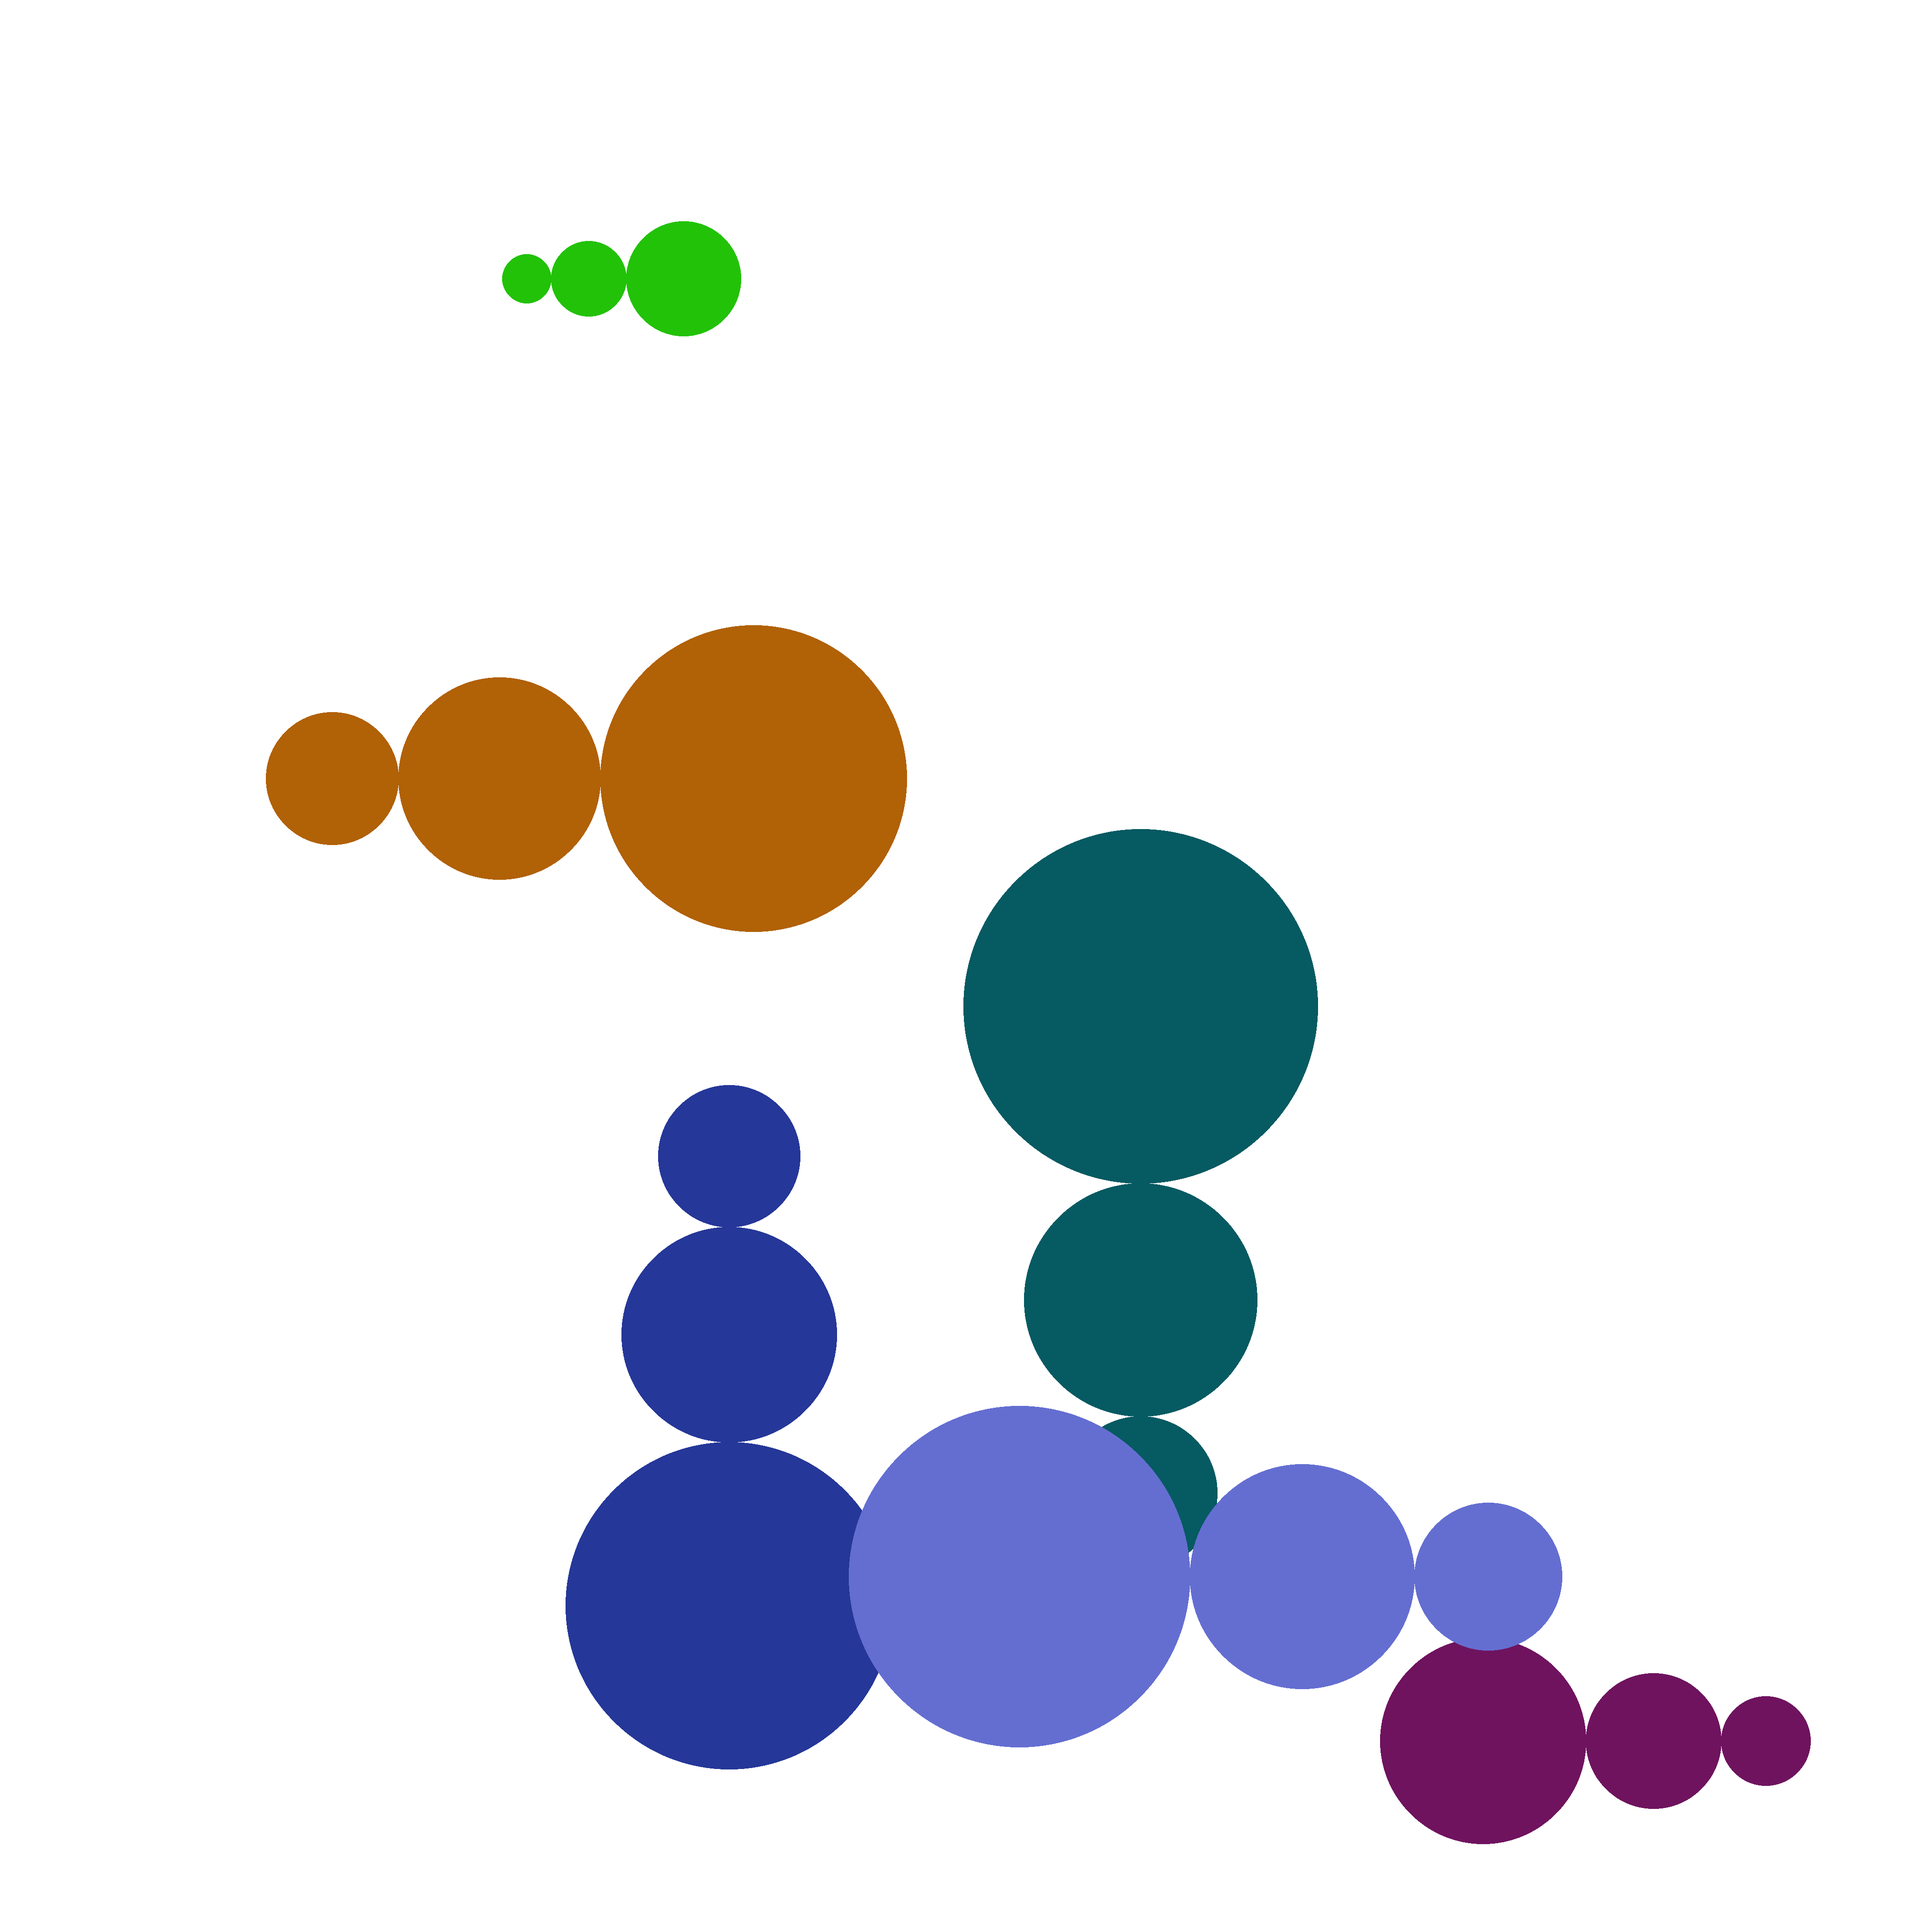
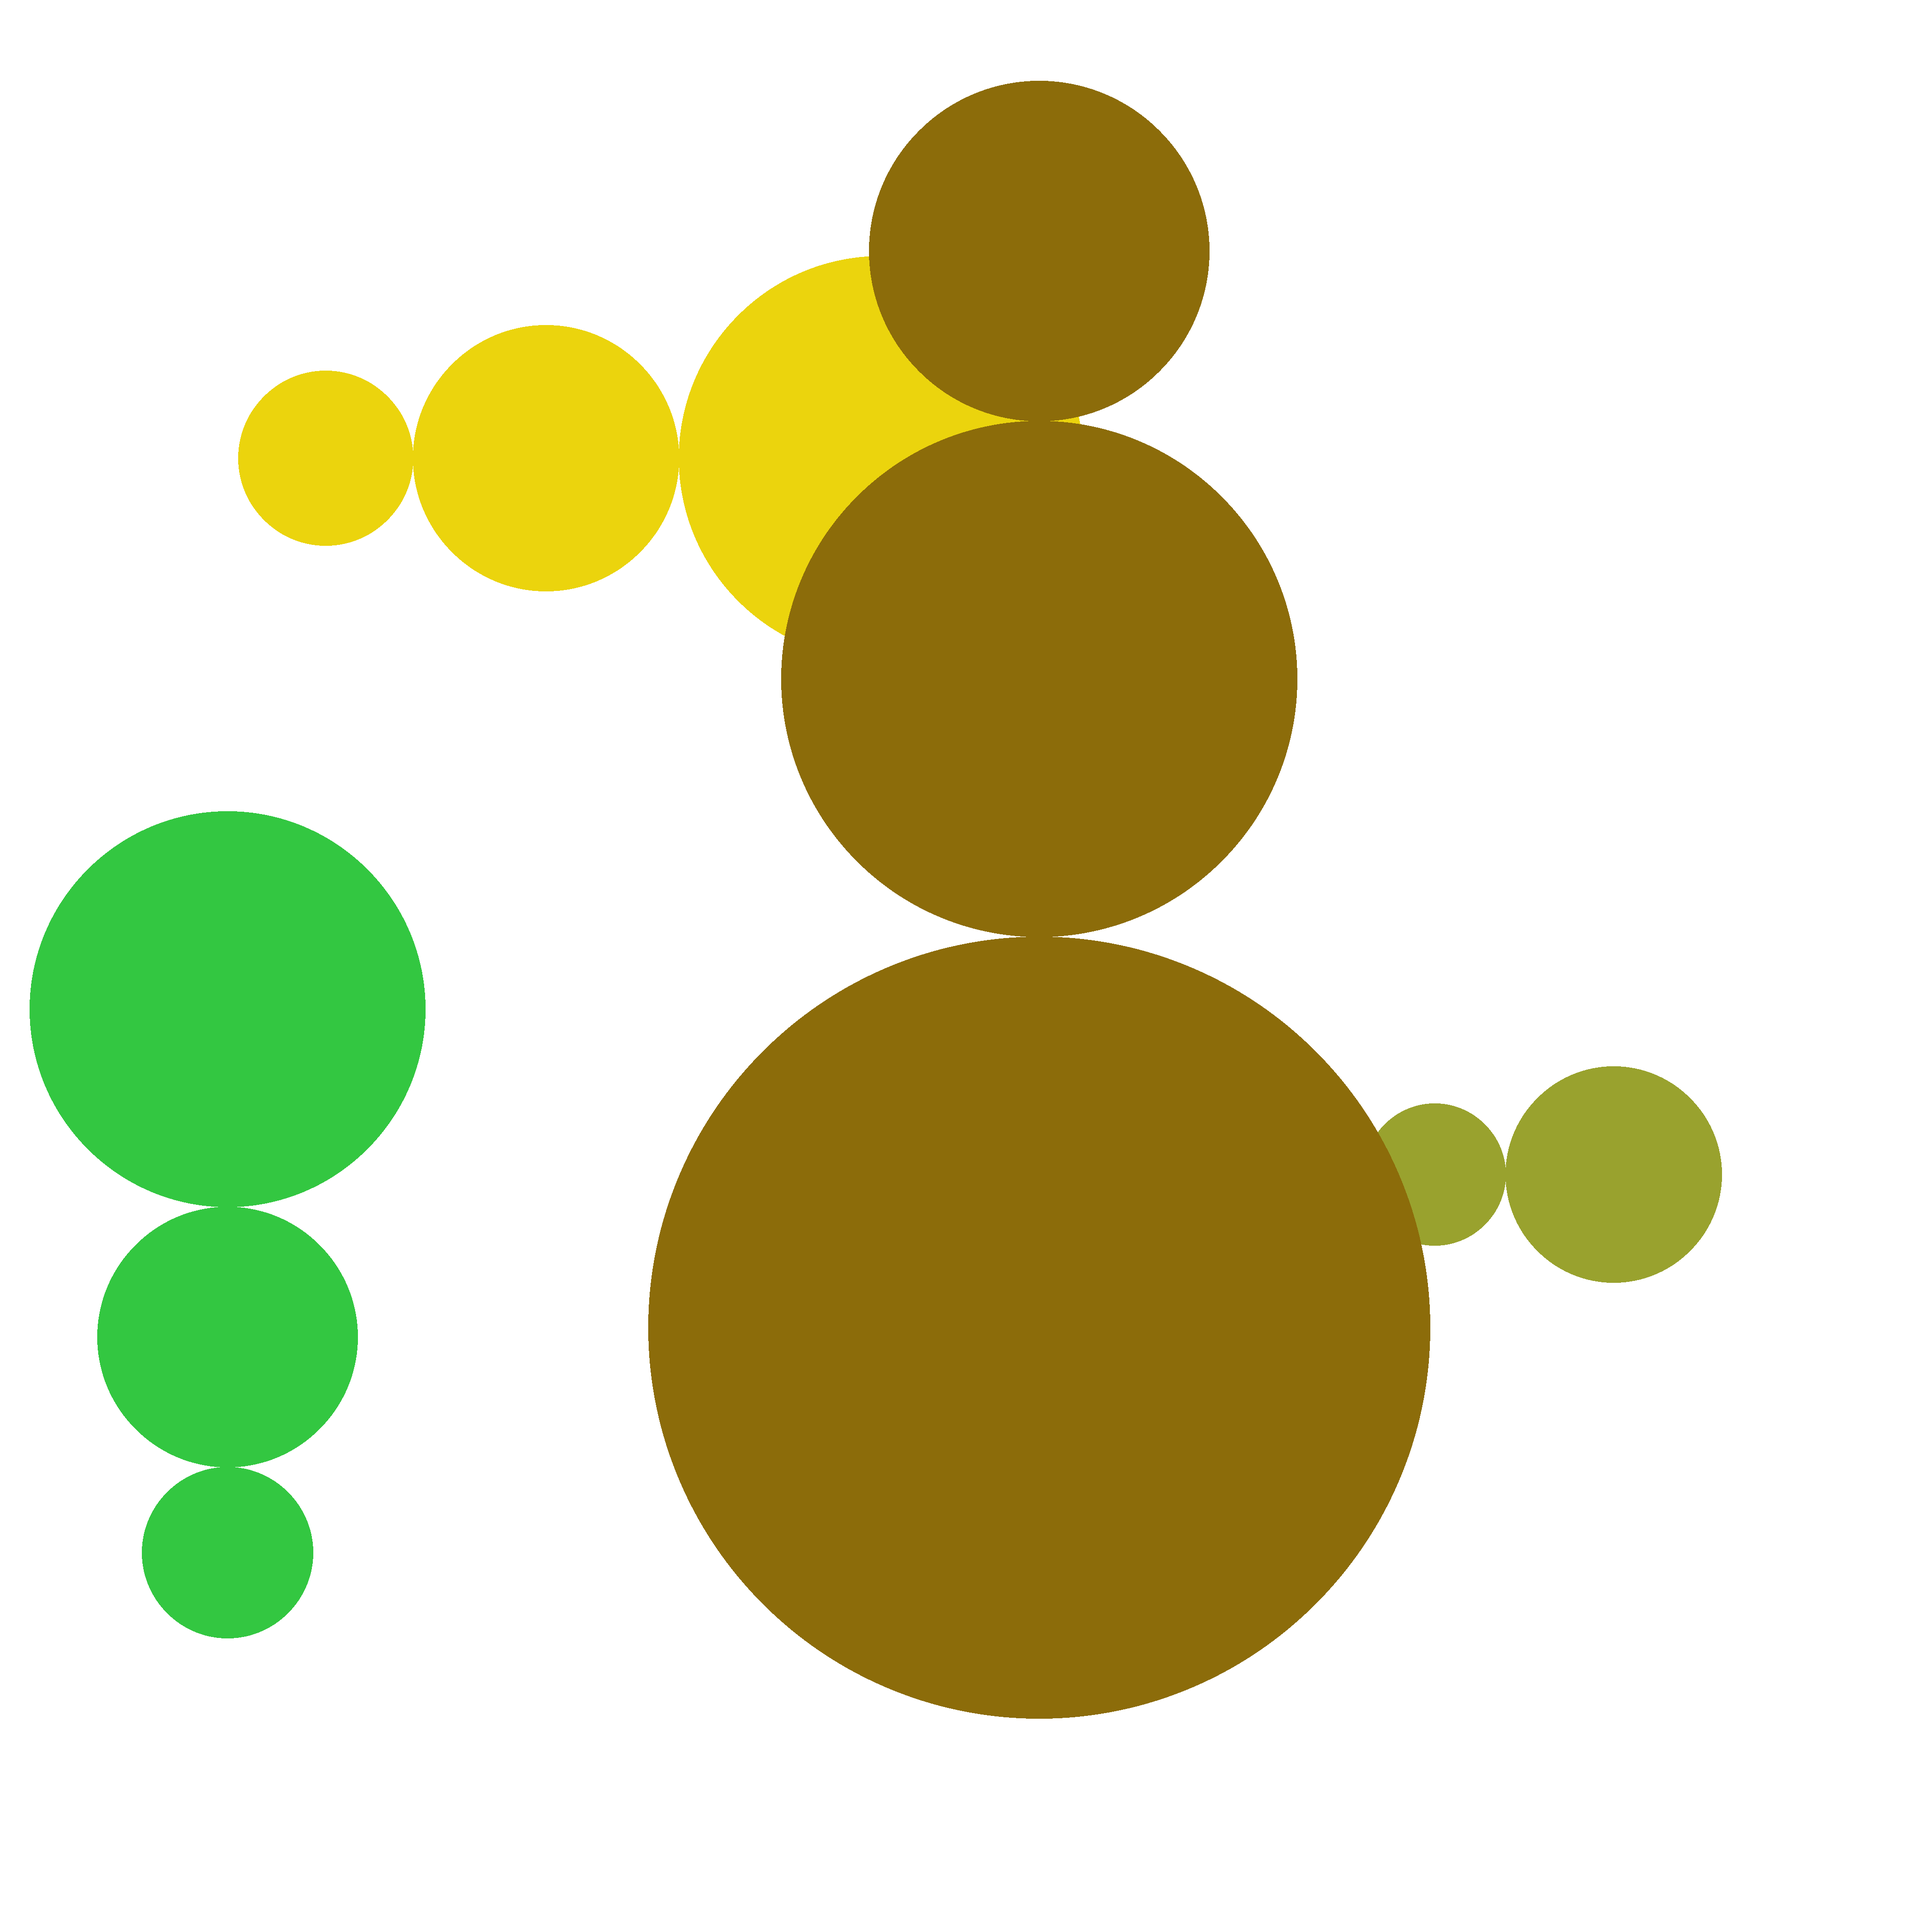
Created a new class SnowmanThread which implements Runnable. This class is now used to create threads which each generate their own random snowmen based on their input params. I also adjusted the max snowman size to just about fit in the boundary of the canvas, however I will probably revert this in

diff --git a/src/q1.java b/src/q1.java
@@ -1,78 +1,106 @@
 import java.awt.image.*;
 import java.io.*;
-import java.util.Random;
-
 import javax.imageio.*;
+import java.util.Random;
 
 public class q1 {
 
     // Parameters
-    public static int t;
-    public static int n;
+    public static int t=4;
+    public static int n=4;
     public static int width=4096;
     public static int height=4096;
 
-    // Constants
-    public static final int RED=0xffff0000;
-    public static final int WHITE=0xffffffff;
-    public static final int MIN_SIZE=8;
-    public static final int MAX_SIZE=400;
-    public static final int NUM_OF_SNOWMEN=6;
-    public static final double SCALE = 0.66;
-
-    // My custom enum type for the orientation
-    enum Orientation {up, down, left, right};
-
     public static void main(String[] args) {
         try {
-            // once we know what size we want we can creat an empty image
+            // Create a blank image
             BufferedImage outputimage = new BufferedImage(width,height,BufferedImage.TYPE_INT_ARGB);
-            for(int i=0; i<NUM_OF_SNOWMEN; i++) {
-                drawRandomSnowman(outputimage);
-            }
-            
-            // Write out the image
+
+            // Instantiate the SnowmanThread class so we can reference its run() method below
+            SnowmanThread snowmanThread = new SnowmanThread(outputimage, n/t);
+            Thread[] threads = new Thread[t];
+            for(int i=0; i<t; i++)                     // Create t threads using snowmanThread for the runnable
+                threads[i] = new Thread(snowmanThread);
+            for(Thread t : threads)                    // Start all the threads
+                t.start();
+            for(Thread t : threads)                    // Join all the threads
+                t.join();
+
+            // Write the image to a .png file
             File outputfile = new File("outputimage.png");
             ImageIO.write(outputimage, "png", outputfile);
 
-        } catch (Exception e) {
-            System.out.println("ERROR " +e);
-            e.printStackTrace();
+        } catch (Exception e) {                        // Catch errors
+            System.out.println("ERROR " +e);           // And print them to the console
+            e.printStackTrace();                       // Also print the stack trace
         }
     }
-    
+}
+
+class SnowmanThread implements Runnable {
+
+    // Private vars
+    private BufferedImage img;
+    private int numOfSnowmen;
+    private int maxSize;
+
+    // Constants
+    public static final int MIN_SIZE = 8;
+    public static final double SCALE = 0.66;
+
+    // Custom enum type for the orientation
+    enum Orientation {up, down, left, right};
+
+    public SnowmanThread(BufferedImage img, int numOfSnowmen) {
+        super();                                       // Use default Runnable constructor
+        this.img = img;                                // Initialise private img reference
+        this.numOfSnowmen = numOfSnowmen;              // Initialise private numOfSnowmen
+
+        // Calculate max possible size of snowman that could fit on the canvas and set maxSize
+        // In hindsight this creates snowmen that are far too large and will lead to lots of
+        // other threads repeatedly re-generating potential snowmen, but the math is satisfying
+        int min = (img.getWidth() < img.getHeight() ? img.getWidth() : img.getHeight());
+        this.maxSize = (int)(min/((2*SCALE*SCALE)+(2*SCALE)+(2)));
+    }
+
+    @Override
+    public void run() {                                // Overriden run method defines what the thread will do
+        for(int i=0; i<numOfSnowmen; i++)              // when .start() is called on a thread that was created
+            drawRandomSnowman(this.img);               // using this runnable as its constuctor argument
+    }
+
     // This function will draw a snowman of random size and orientation
     // The snowman is guaranteed to be within the bounds of the image
-    public static void drawRandomSnowman(BufferedImage img) {
+    public void drawRandomSnowman(BufferedImage img) {
         int x, y;
         Orientation o;
         Random rng = new Random();
-        int size = rng.nextInt(MIN_SIZE, MAX_SIZE);
+        int size = rng.nextInt(MIN_SIZE, maxSize);
         switch(size%4) {                               // Generate random direction using modulo arithmetic
             case 0:
-                o=Orientation.up;
-                x = rng.nextInt(size, width-size);     // Ensure rng co-ords prevent out of bounds errors
-                y = rng.nextInt((int)(size+(2*size*SCALE)+(2*size*SCALE*SCALE)), height-size);
+                o=Orientation.up;                      // Ensure rng co-ords prevent out of bounds errors
+                x = rng.nextInt(size, img.getWidth()-size);
+                y = rng.nextInt((int)(size+(2*size*SCALE)+(2*size*SCALE*SCALE)), img.getHeight()-size);
                 break;
             case 1:
-                o=Orientation.down;
-                x = rng.nextInt(size, width-size);     // Ensure rng co-ords prevent out of bounds errors
-                y = rng.nextInt(size, (int)(height-(size+(2*size*SCALE)+(2*size*SCALE*SCALE))));
+                o=Orientation.down;                    // Ensure rng co-ords prevent out of bounds errors
+                x = rng.nextInt(size, img.getWidth()-size);
+                y = rng.nextInt(size, (int)(img.getHeight()-(size+(2*size*SCALE)+(2*size*SCALE*SCALE))));
                 break;
             case 2:
-                o=Orientation.left;
-                x = rng.nextInt((int)(size+(2*size*SCALE)+(2*size*SCALE*SCALE)), width-size);
-                y = rng.nextInt(size, height-size);    // Ensure rng co-ords prevent out of bounds errors
+                o=Orientation.left;                    // Ensure rng co-ords prevent out of bounds errors
+                x = rng.nextInt((int)(size+(2*size*SCALE)+(2*size*SCALE*SCALE)), img.getWidth()-size);
+                y = rng.nextInt(size, img.getHeight()-size);
                 break;
             case 3:
-                o=Orientation.right;
-                x = rng.nextInt(size, (int)(width-(size+(2*size*SCALE)+(2*size*SCALE*SCALE))));
-                y = rng.nextInt(size, height-size);    // Ensure rng co-ords prevent out of bounds errors
+                o=Orientation.right;                   // Ensure rng co-ords prevent out of bounds errors
+                x = rng.nextInt(size, (int)(img.getWidth()-(size+(2*size*SCALE)+(2*size*SCALE*SCALE))));
+                y = rng.nextInt(size, img.getHeight()-size);
                 break;
             default:
                 o=Orientation.up;                      // Default snowman is facing up, in the center of
-                x = width/2;                           // the canvas
-                y = height/2;
+                x = img.getWidth()/2;                  // the canvas
+                y = img.getHeight()/2;
                 break;
         }
         int colour = rng.nextInt(0x00ffffff);    // Generate random colour
@@ -112,21 +140,22 @@ public class q1 {
     // Bresenham's algorithm. The function itself is adapted from an example
     // I found on GeeksForGeeks.org
     public static void drawCircle(BufferedImage img, int xc, int yc, int r, int colour){
-        int x = 0, y = r;
-        int d = 3 - 2 * r;
+        int x = 0;                                     // Start position is (0,r)
+        int y = r;                                     // The top of the circle
+        int d = 3-(2*r);                               // With an appropriate decision var
 
-        drawPixels(img, xc, yc, x, y, colour);         // draw the 8 initial pixels
-        while (y >= x){                                // while(in the top right octant)
-            if (d > 0) {                               //   Evaluate the decision param
-                y--;                                   //     Decrement the y co-ord if d indicates to do so
-                d = d + 4 * (x - y) + 10;              //     Update the decision param for next pixel
+        drawPixels(img, xc, yc, x, y, colour);         // Draw the 8 initial pixels
+        while(y>=x){                                   // While(in the top right octant)
+            if(d>0) {                                  // Evaluate the decision param
+                y--;                                   // Decrement the y co-ord if d indicates to do so
+                d = d+4*(x-y)+10;                      // Update the decision param for next pixel
             }
             else {
-                d = d + 4 * x + 6;                     //     Update the decision param for next pixel
+                d = d+(4*x)+6;                         // Update the decision param for next pixel
             }
-            x++;                                       //   Shift focus to the desired pixel
-            drawPixels(img, xc, yc, x, y, colour);     //   Draw this pixel and its equivalent in the
-        }                                              //   7 other octants
+            x++;                                       // Shift focus to the desired pixel
+            drawPixels(img, xc, yc, x, y, colour);     // Draw this pixel and its equivalent in the
+        }                                              // 7 other octants
     }
 
     // This function is a helpter function for the drawCircle() function. Its
